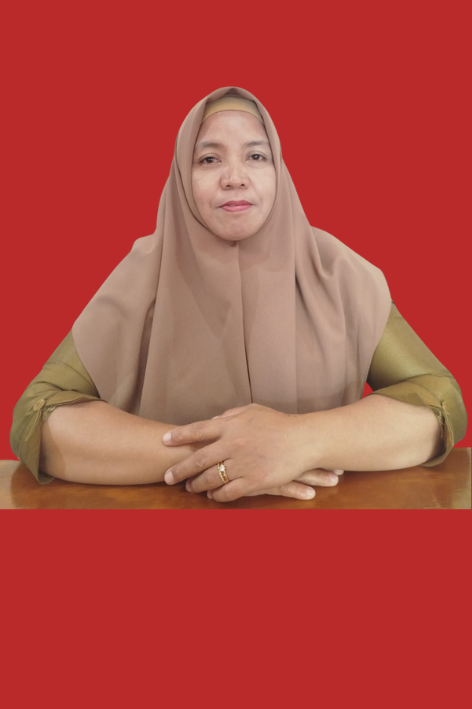
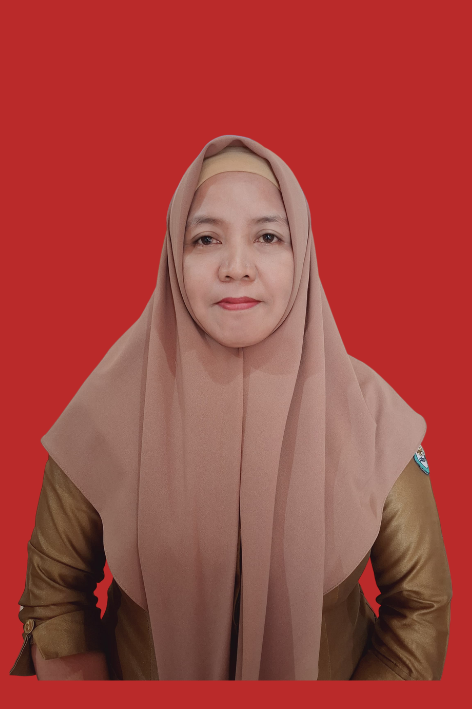
up

diff --git a/index.html b/index.html
@@ -92,7 +92,7 @@
                   SELAMAT DATANG DI DESA TABA MULAN
                 </h1>
                 <p class="lead mb-3">
-                  Infrastruktur Kuat, Ekonomi Berkembang, Kesejahteraan Masyarakat Terwujud
+                  Mari bersama membangun desa yang maju, mandiri, dan berdaya saing.
                 </p>
                 <p class="mb-4">Kecamatan Merigi, Kabupaten Kepahiang, Bengkulu</p>
                 <a href="#about" class="btn btn-outline-light btn-lg px-5">
@@ -122,10 +122,11 @@
           </div>
           <div class="col-md-6 mt-4 mt-md-0">
             <p class="text-justify">
-              Lorem ipsum dolor sit amet consectetur adipisicing elit. Officiis ut maxime molestiae modi, debitis cum voluptatibus, tenetur a sit est eos eius optio! Autem, et quos. Eaque cupiditate praesentium nam. Nemo!
+              Riwayat Desa Taba Mulan bermula jauh sebelum masa kemerdekaan, ketika seorang pemuda bernama Wulan membuka lahan pertanian dan menetap sementara di sebuah talang yang dalam bahasa Rejang disebut “Tabe’a.” Tempat ini kemudian dikenal sebagai Tabe’a Wulan, yang berarti pemukiman Wulan, sesuai dengan nama pendirinya. Seiring berjalannya waktu dan bertambahnya penduduk, sebutan Tabe’a Wulan mengalami perubahan menjadi Taba Mulan akibat pengaruh dialek para pendatang. Pada 10 Mei 1950, berdasarkan musyawarah adat, Tabe’a Wulan berubah status menjadi Dusun Taba Mulan di bawah Desa Simpang Kota Bingin. Upaya pemekaran dusun menjadi desa sempat diajukan pada tahun 1955 oleh tokoh masyarakat Abdul Latif Tu’ib, namun gagal karena belum memenuhi syarat jumlah kepala keluarga.
             </p>
             <p class="text-justify">
-              Lorem, ipsum dolor sit amet consectetur adipisicing elit. Fugit at perspiciatis nesciunt facilis suscipit iste voluptatum et, dolores officiis eligendi, pariatur quas, ducimus maiores architecto dolorem! Ratione voluptas dolore iste?
+              Penduduk Dusun Taba Mulan terus bertambah seiring masuknya pendatang dari berbagai daerah seperti Bengkulu Selatan, Jawa, Sumatera Barat, dan Sumatera Selatan. Akhirnya, pada tahun 1967, setelah syarat jumlah penduduk terpenuhi, Dusun Taba Mulan resmi menjadi Desa Taba Mulan yang berdiri sendiri, terpisah dari Desa Simpang Kota Bingin. Ginde (Kepala Desa) pertama yang ditunjuk adalah Bapak H. Yahya. Wilayah desa ini berbatasan dengan Air Draup di utara (Desa Simpang Kota Bingin), Jalan Bhakti Menwa dan Tanah H.A. Roni di selatan (Kelurahan Durian Depun), Muara Air Draup di barat (Kelurahan Tempel Rejo), serta air terjun di timur (Kelurahan Talang Rimbo Lama).
+
             </p>
           </div>
         </div>
@@ -176,99 +177,63 @@
       <div class="container timeline-item">
         <div class="row justify-content-center">
           <div class="col-11 col-md-8 col-lg-6 mx-auto">
-            <h4 class="text-center mb-4">Masa Kepemimpinan Kepala Desa Taba Mulan</h4>
+            <h4 class="text-center mb-4">Daftar Masa Kepemimpinan Kepala Desa Taba Mulan</h4>
             <div class="table-responsive px-2">
               <table class="table table-borderless">
                 <tbody>
                   <tr>
-                    <td>Kuwu Ke-1</td>
+                    <td>Abdul Latif Tu’ib</td>
                     <td>:</td>
-                    <td>Kuwu Jangkung</td>
-                    <td>(1923-1948)</td>
+                    <td>Kepala Dusun di bawah Desa Simpang Kota Bingin</td>
+                    <td>1950 – 1967</td>
                   </tr>
                   <tr>
-                    <td>Kuwu Ke-2</td>
+                    <td>H. Yahya</td>
                     <td>:</td>
-                    <td>H. Salim</td>
-                    <td>(1948-1954)</td>
+                    <td>Mengundurkan diri tahun 1977 karena sakit; menjabat kembali tahun 1980</td>
+                    <td>1967 – 1977 & 1980 – 1990</td>
                   </tr>
                   <tr>
-                    <td>Kuwu Ke-3</td>
+                    <td>M. Ali Baini (PJS)</td>
                     <td>:</td>
-                    <td>H. Saman</td>
-                    <td>(1954-1978)</td>
+                    <td>Pejabat Sementara saat H. Yahya mengundurkan diri</td>
+                    <td>1977 – 1980</td>
                   </tr>
                   <tr>
-                    <td>Kuwu Ke-4</td>
+                    <td>Z. Arifin (PJS)</td>
                     <td>:</td>
-                    <td>Sopyan</td>
-                    <td>(1978-1983)</td>
+                    <td>Pejabat sementara sebelum pemilihan Kepala Desa secara demokratis</td>
+                    <td>1990 – 1992</td>
                   </tr>
                   <tr>
-                    <td>Kuwu Ke-5</td>
+                    <td>Yusneli</td>
                     <td>:</td>
-                    <td>Sopandi</td>
-                    <td>(1983-1987)</td>
+                    <td>Kepala Desa wanita pertama, hasil pemilihan demokratis</td>
+                    <td> 1992 – 2000</td>
                   </tr>
                   <tr>
-                    <td>Kepala Desa Ke-6</td>
+                    <td>Aris, SP</td>
                     <td>:</td>
-                    <td>Oo Solichin (PJS)</td>
-                    <td>(1987-1989)</td>
+                    <td></td>
+                    <td>2000 – 2002</td>
                   </tr>
                   <tr>
-                    <td>Kepala Desa Ke-7</td>
+                    <td>Herman Effendi</td>
                     <td>:</td>
-                    <td>Oja Sodikin</td>
-                    <td>(1989-1993)</td>
+                    <td>Mengundurkan diri karena menolak bergabung dengan Kabupaten Kepahiang</td>
+                    <td>2002 – 2007</td>
                   </tr>
                   <tr>
-                    <td>Kepala Desa Ke-8</td>
+                    <td>Zulkarnain</td>
                     <td>:</td>
-                    <td>Suryana (PJS)</td>
-                    <td>(1993-1995)</td>
+                    <td>Menjabat tiga kali (1x PJS, 2x terpilih)</td>
+                    <td>Periode PJS: 2007 – 2008,  2008 – 2016,  2016 – 2021</td>
                   </tr>
                   <tr>
-                    <td>Kepala Desa Ke-9</td>
+                    <td>Apendi</td>
                     <td>:</td>
-                    <td>Iyep Saripudin</td>
-                    <td>(2001-2002)</td>
-                  </tr>
-                  <tr>
-                    <td>Kepala Desa Ke-10</td>
-                    <td>:</td>
-                    <td>Acep, S.IP.</td>
-                    <td>(2002-2013)</td>
-                  </tr>
-                  <tr>
-                    <td>Kepala Desa Ke-11</td>
-                    <td>:</td>
-                    <td>Momon, S.IP. (PJS)</td>
-                    <td>(2014-2015)</td>
-                  </tr>
-                  <tr>
-                    <td>Kepala Desa Ke-12</td>
-                    <td>:</td>
-                    <td>Aha Nugraha</td>
-                    <td>(2015-2021)</td>
-                  </tr>
-                  <tr>
-                    <td>Kepala Desa Ke-13</td>
-                    <td>:</td>
-                    <td>Aha Nugraha</td>
-                    <td>(2021-2022)</td>
-                  </tr>
-                  <tr>
-                    <td>Kepala Desa Ke-14</td>
-                    <td>:</td>
-                    <td>Tito Ali Purnomo, M.Si.</td>
-                    <td>(2022-2023)</td>
-                  </tr>
-                  <tr>
-                    <td>Kepala Desa Ke-15</td>
-                    <td>:</td>
-                    <td>Drs. Uwem Sulaeman</td>
-                    <td>(2023-Sekarang)</td>
+                    <td>Kepala Desa Saat Ini</td>
+                    <td>Periode: 2021 – sekarang (per 2025)</td>
                   </tr>
                 </tbody>
               </table>
@@ -334,8 +299,8 @@
                 <div class="d-flex align-items-center justify-content-center p-3">
                   <i class="fas fa-map-marked-alt fa-3x text-dark me-3"></i>
                   <div>
-                    <h2 class="display-4 fw-bold mb-0">000</h2>
-                    <p class="text-muted mb-0">Luas Wilayah (KM²)</p>
+                    <h2 class="display-4 fw-bold mb-0">600</h2>
+                    <p class="text-muted mb-0">Luas Wilayah (ha)</p>
                   </div>
                 </div>
               </div>
@@ -357,7 +322,7 @@
     <!-- Struktur Organisasi -->
     <section id="profil" class="py-5 bg-light">
       <div class="container">
-        <h2 class="text-center mb-4">Struktur Organisasi Tahun 2000-2000</h2>
+        <h2 class="text-center mb-4">Struktur Organisasi Tahun 2025</h2>
         <div class="row justify-content-center">
           <!-- Kepala Desa -->
           <div class="col-4 col-md-2 px-1">
@@ -561,7 +526,7 @@
               <div class="card text-center h-100 org-structure-card">
                 <div style="aspect-ratio: 3/4; overflow: hidden">
                   <img
-                    src="assets/images/struktur/adi.jpg"
+                    src="assets/images/struktur/kadus4.jpg"
                     class="card-img-top w-100 h-100"
                     alt="Foto Kadus 4"
                     style="object-fit: cover"
@@ -747,26 +712,6 @@
     <!-- Kontak -->
     <section id="kontak" class="py-5">
       <div class="container">
-        <h2 class="text-center mb-4">Hubungi Kami</h2>
-        <div class="row">
-          <div class="col-md-6">
-            <form>
-              <div class="mb-3">
-                <input type="text" class="form-control" placeholder="Nama" />
-              </div>
-              <div class="mb-3">
-                <input type="email" class="form-control" placeholder="Email" />
-              </div>
-              <div class="mb-3">
-                <textarea
-                  class="form-control"
-                  rows="5"
-                  placeholder="Pesan"
-                ></textarea>
-              </div>
-              <button type="submit" class="btn btn-primary">Kirim Pesan</button>
-            </form>
-          </div>
           <div class="col-md-6 mt-4 mt-md-0">
             <h5>Alamat:</h5>
             <p>
@@ -788,20 +733,20 @@
       <div class="container">
         <div class="row">
           <div class="col-md-4">
-            <h5>Desa Pamoyanan</h5>
+            <h5>Desa Taba Mulan</h5>
             <p>Infrastruktur Kuat, Ekonomi Berkembang, Kesejahteraan Masyarakat Terwujud.</p>
           </div>
           <div class="col-md-4">
             <h5>Media Sosial</h5>
             <div class="social-links">
-              <a href="https://www.instagram.com/kkn58.pamoyanan" target="_blank" class="text-white me-2"
+              <a href="https://www.instagram.com/desa.tabamulan/" target="_blank" class="text-white me-2"
                 ><i class="fab fa-instagram"></i
               ></a>
-              <a href="https://www.tiktok.com/@kkn58.pamoyanan" target="_blank" class="text-white me-2"
+              <a href="https://www.instagram.com/desa.tabamulan/" target="_blank" class="text-white me-2"
                 ><i class="fab fa-tiktok"></i
               ></a>
-              <a href="https://www.youtube.com/@KKN58PAMOYANAN" target="_blank" class="text-white me-2"
-                ><i class="fab fa-youtube"></i
+              <a href="https://www.facebook.com/share/1BpzyFrg8S/?mibextid=qi2Omg" target="_blank" class="text-white me-2"
+                ><i class="fab fa-facebook"></i
               ></a>
             </div>
           </div>
@@ -817,7 +762,7 @@
               </div>
               <div class="col-2">
                 <ul class="list-unstyled">
-                  <li><a href="#berita" class="text-white">Berita</a></li>
+                  <li><a href="#berita" class="text-white">Potensi</a></li>
                   <li><a href="#galeri" class="text-white">Galeri</a></li>
                   <li><a href="#lokasi" class="text-white">Lokasi</a></li>
                 </ul>
@@ -827,7 +772,7 @@
         </div>
         <hr />
         <div class="text-center">
-          <p>&copy; 2025 KKN 58 Pamoyanan | Universitas Siliwangi</p>
+          <p>&copy; 2025 KKN Periode 105 Kelompok 238| Universitas Bengkulu</p>
         </div>
       </div>
     </footer>
